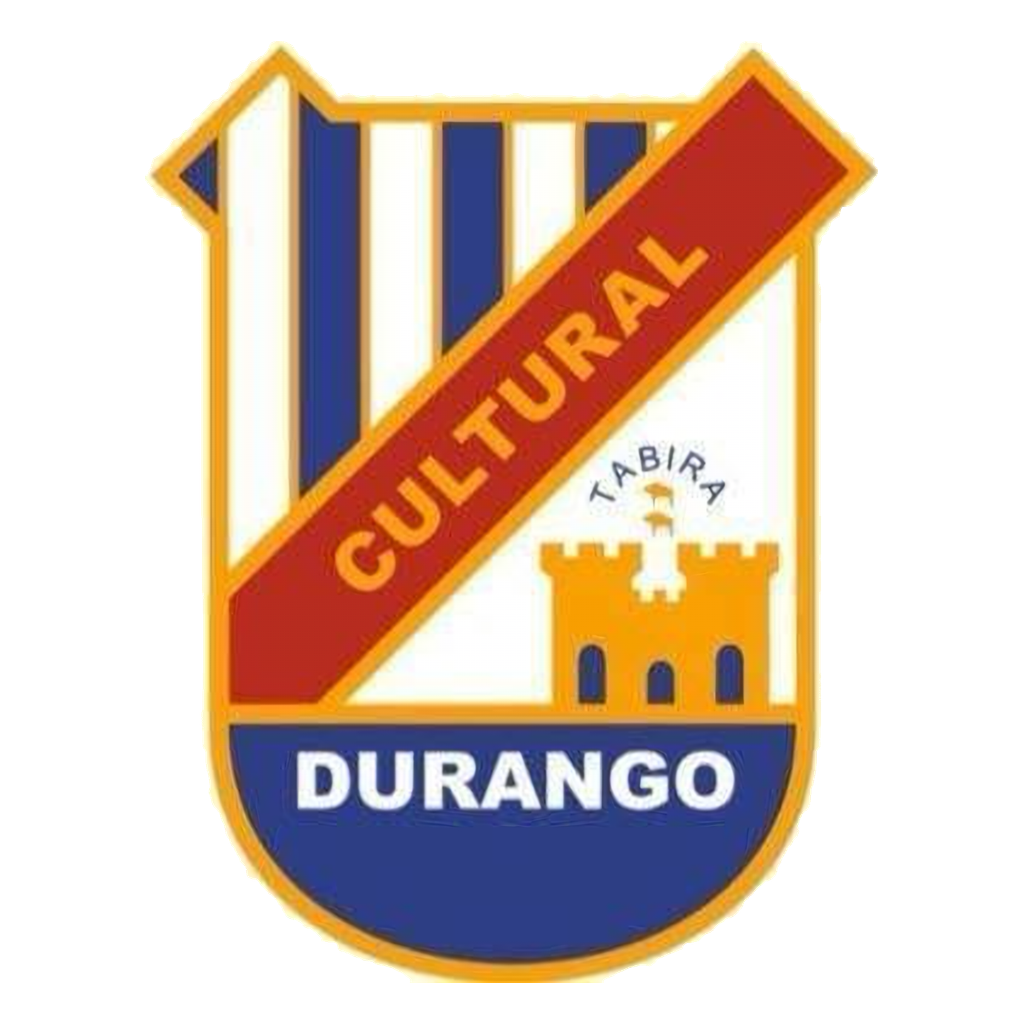
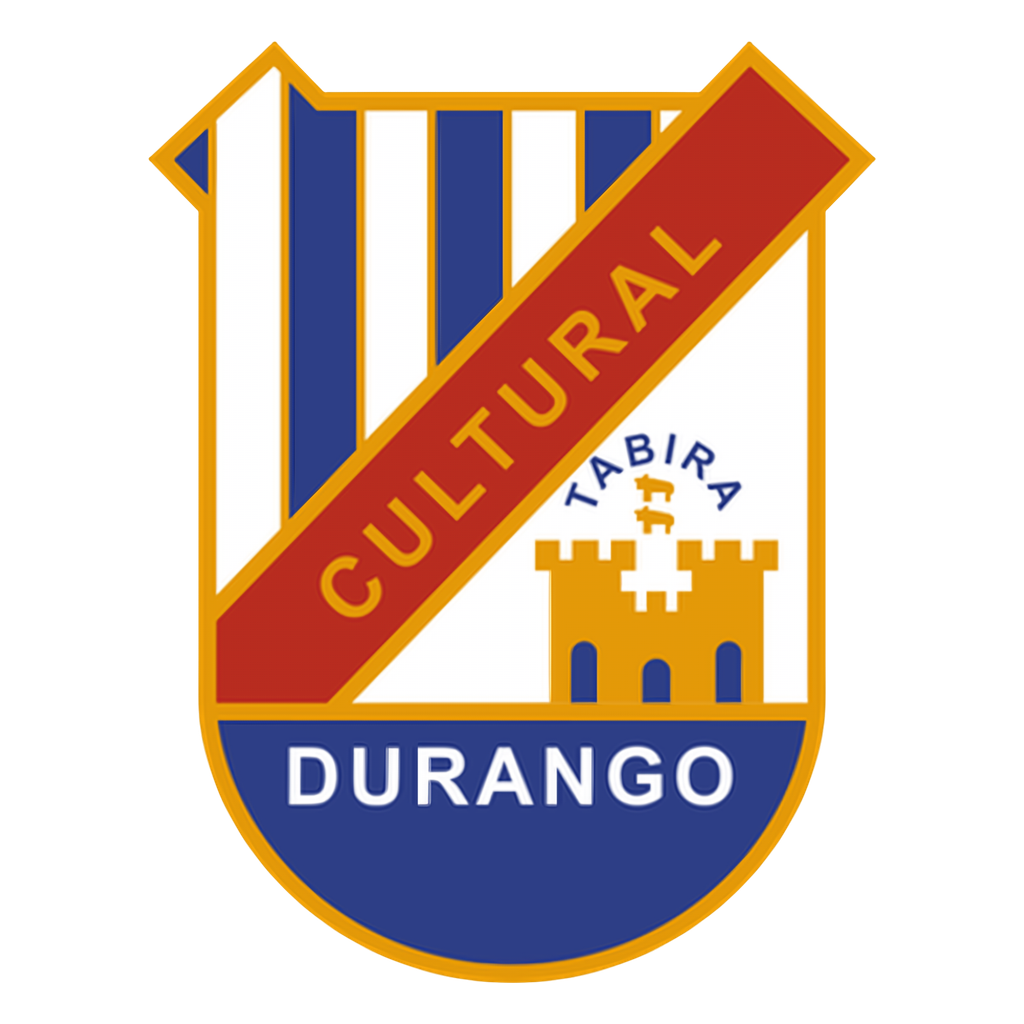
Escudo de Cultural Durango (A y B) nuevo: ampliado con EDSR y WebP sin pérdida de 246 KB
Claude-Session: https://claude.ai/code/session_017GJckUcact2uuuHqMo6vqx

Changed region(s): [[0.125, 0.0312, 0.875, 0.9688]]

diff --git a/app/lib/crests.generated.ts b/app/lib/crests.generated.ts
@@ -7,7 +7,7 @@ export const CRESTS: Readonly<Record<string, string>> = {
   "baskauri": "#fced03",
   "bermeo": "#d4121b",
   "bge-aiboa": "#621e2d",
-  "cultural-durango": "#b82f1c",
+  "cultural-durango": "#2e3e85",
   "danok-bat-a": "#9d2725",
   "danok-bat-b": "#9d2725",
   "derio": "#821d34",
